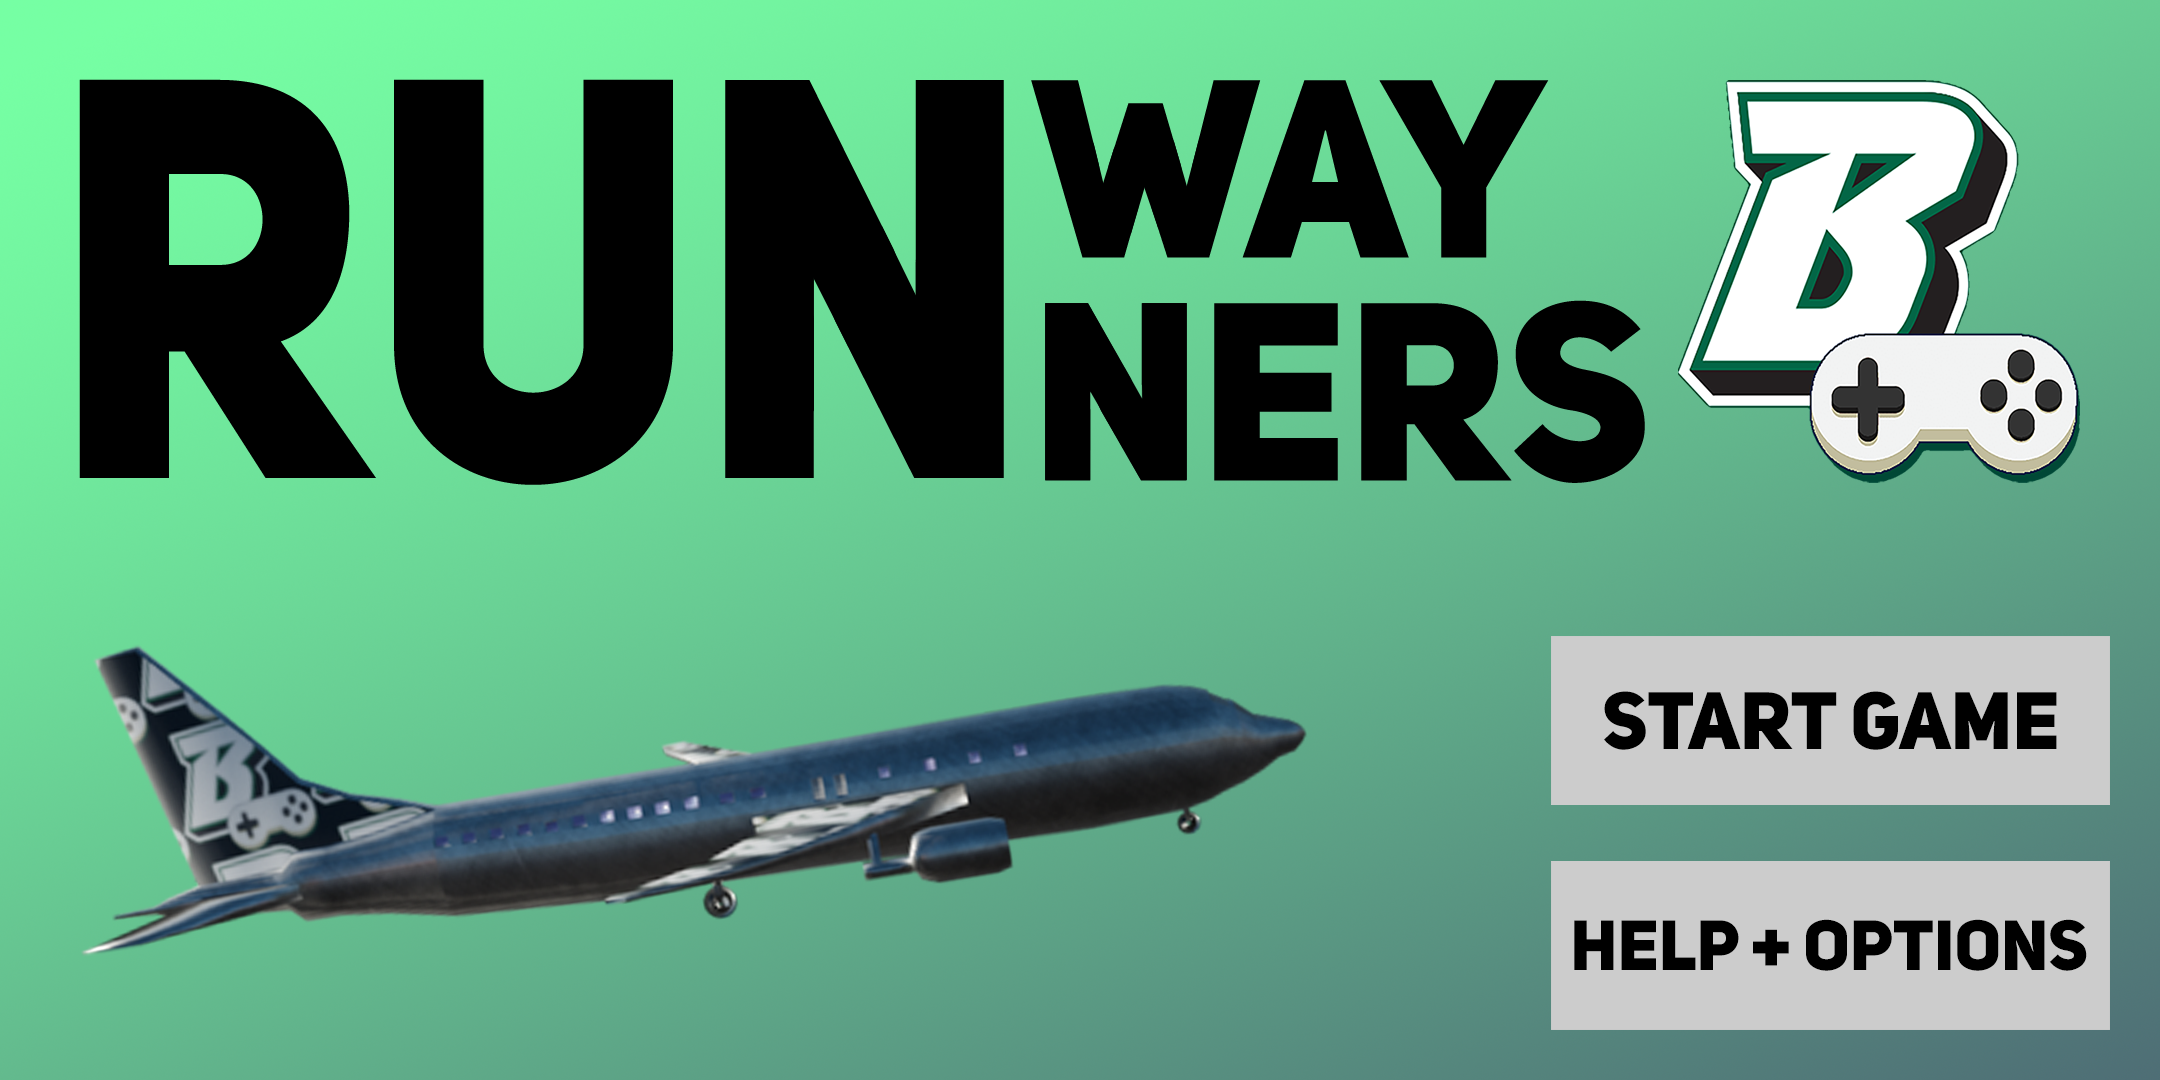
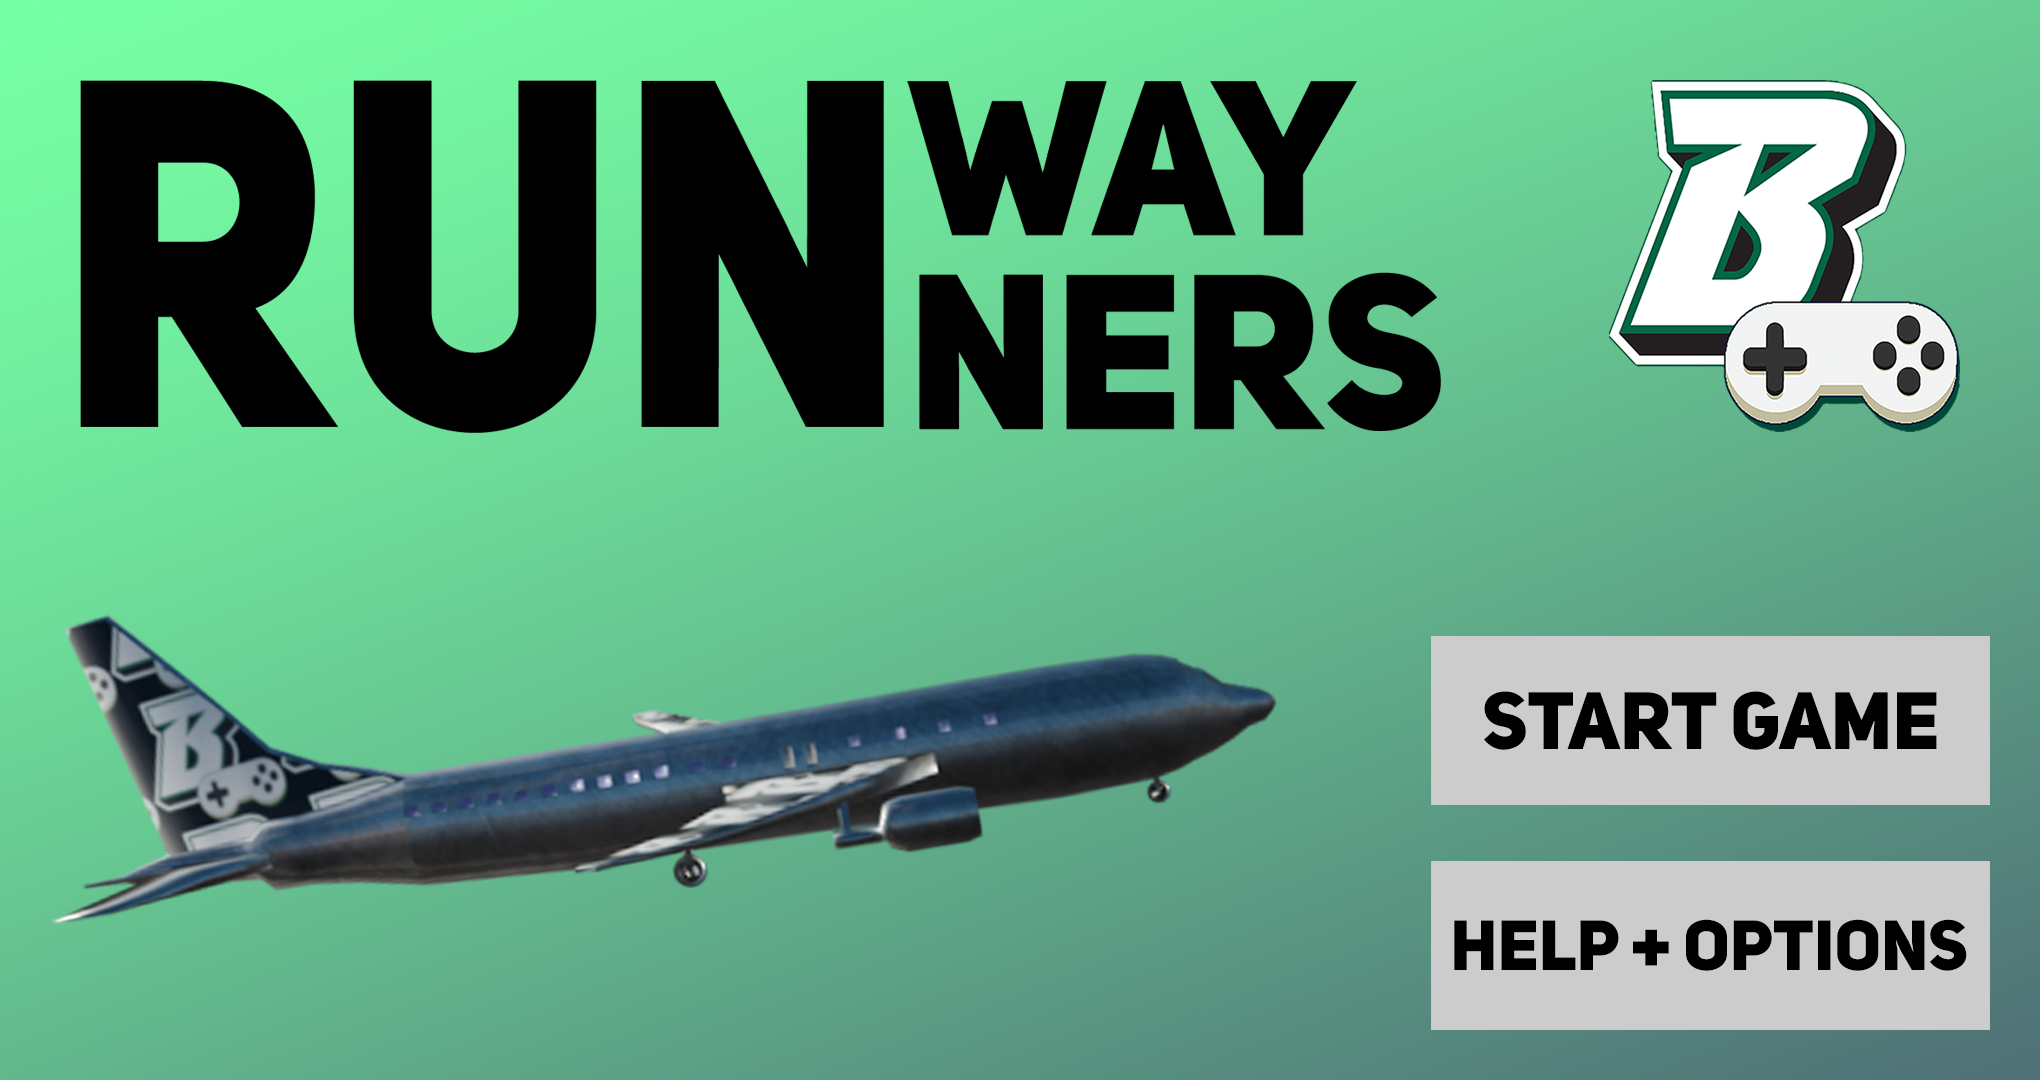
fixed menus

diff --git a/core/src/com/mygdx/groupgame/TitleScreen.java b/core/src/com/mygdx/groupgame/TitleScreen.java
@@ -36,7 +36,7 @@ public class TitleScreen extends ScreenAdapter {
 
         game.batch.begin();
         game.font.setColor(1, 1, 1, 1);
-        game.batch.draw(game.menu1, 0, game.h);
+        game.batch.draw(game.menu1, 0, 0);
 //        game.batch.draw(game.logo, game.w * 0.5f - game.logo.getWidth()/2, game.h * 0.42f - game.logo.getHeight()/2);
 //        game.font.draw(game.batch, "Bingaming Game WIP", game.w * .33f, game.h * 0.89f);
 //        game.font.draw(game.batch, "Tap screen for next", game.w * .33f, game.h * 0.79f);

diff --git a/core/src/com/mygdx/groupgame/EndScreen.java b/core/src/com/mygdx/groupgame/EndScreen.java
@@ -33,10 +33,10 @@ public class EndScreen extends ScreenAdapter {
 
         game.batch.begin();
         game.font.setColor(1, 1, 1, 1);
-        game.batch.draw(game.menu2, 0, game.h);
+        game.batch.draw(game.menu2, 0, 0);
        // game.font.draw(game.batch, "Bingaming End screen", game.w * .33f, game.h * 0.89f);
         //game.font.draw(game.batch, "", game.w * .33f, game.h * 0.79f);
-       // game.batch.end();
+        game.batch.end();
     }
 
     @Override
